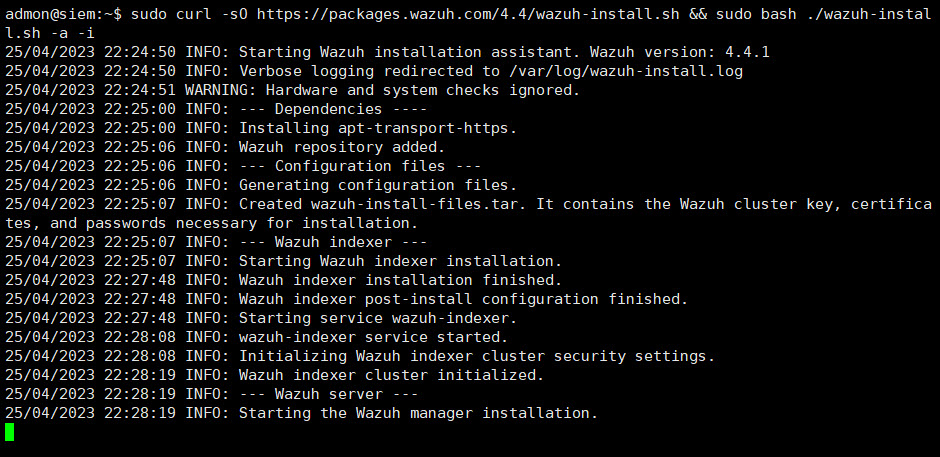
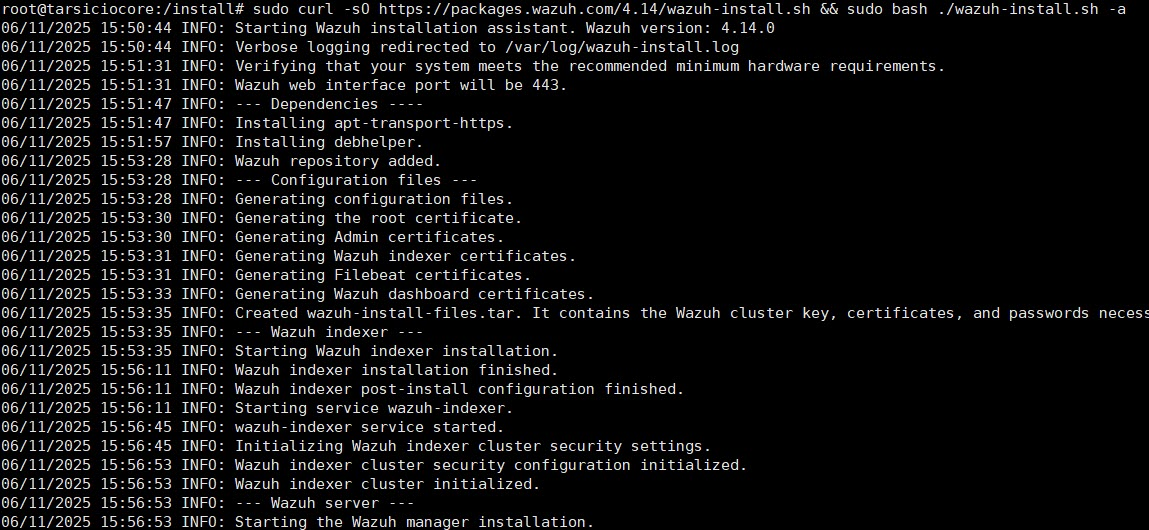
actualizacion 14.4

Changed region(s): [[0.0, 0.0, 1.0, 1.0]]

diff --git a/2. Instalacion Wazuh/README.md b/2. Instalacion Wazuh/README.md
@@ -27,6 +27,9 @@ Abrir una consola de conexión SSH haciendo uso del programa putty, y establecer
 
 ![Conexión a traves de Putty](https://github.com/hernandopena/Wazuh/blob/f088487f5339447e9d956de680fe8ced8d50eb16/2.%20Instalacion%20Wazuh/imagenes/conexion_putty.jpg)
 
+![Conexión a traves de Putty2](imagenes/conexion_putty.jpg)
+
+
 En la línea de comandos vamos a ejecutar el siguiente comando que realizara la descarga del instalador e inmediatamente realizara la instalación del software wazuh :
 
 ```sudo curl -sO https://packages.wazuh.com/4.14/wazuh-install.sh && sudo bash ./wazuh-install.sh -a```
@@ -43,7 +46,7 @@ Si deseamos continuar con la instalación haciendo caso omiso de la advertencia,
 
 El comando anterior se encargará de iniciar la instalación de los componentes necesarios para el funcionamiento de wazuh, y al finalizar la instalación, presentara el nombre de usuario y contraseña para la administración de la plataforma; este proceso puede durar entre 7 y 10 minutos.
 
-Para el caso de este laboratorio el instalador nos presenta que nos ha asignado un usuario y una contraseña como se presentan a continuación:
+Para el caso de este laboratorio el instalador nos presenta que nos ha asignado un usuario y una contraseña similar a como se presentan a continuación:
 
 ```
 User: admin
